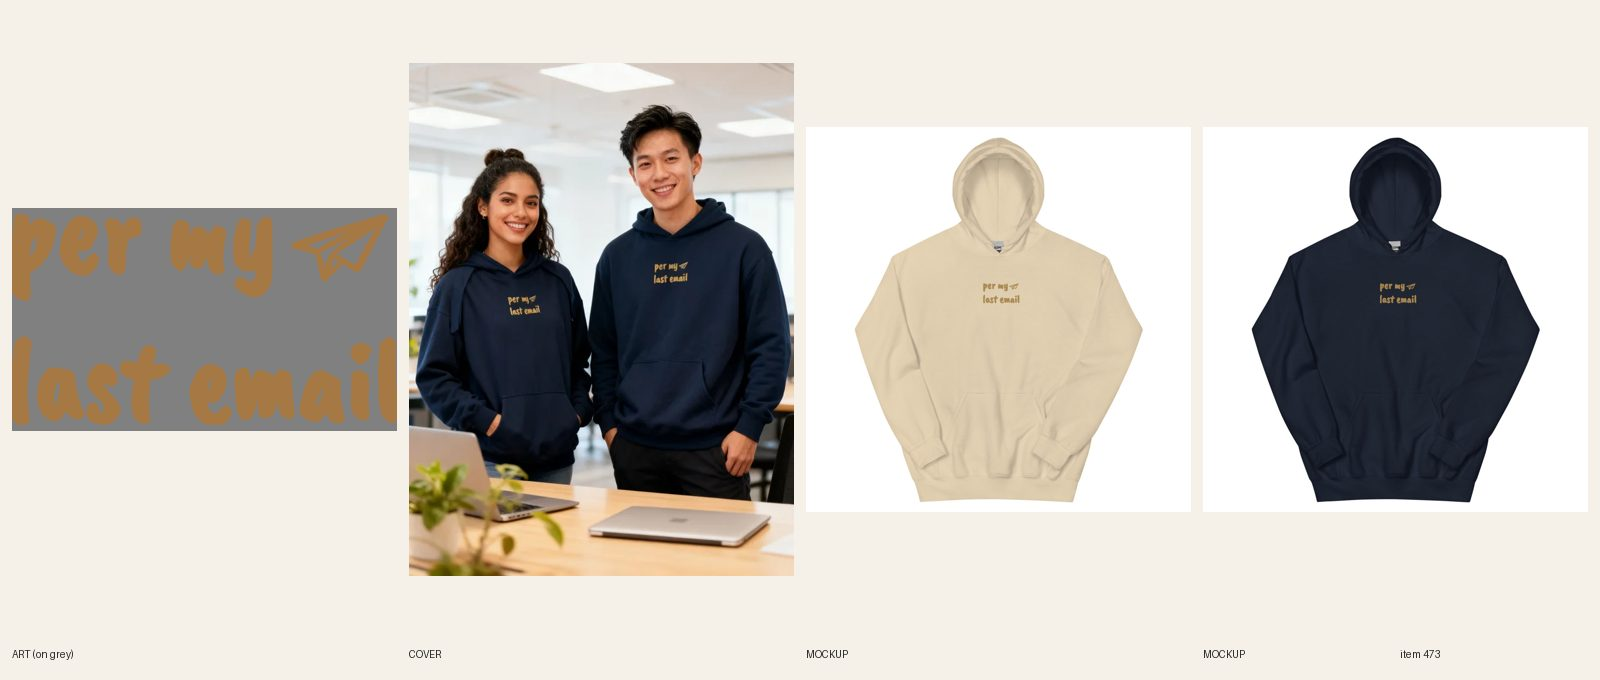
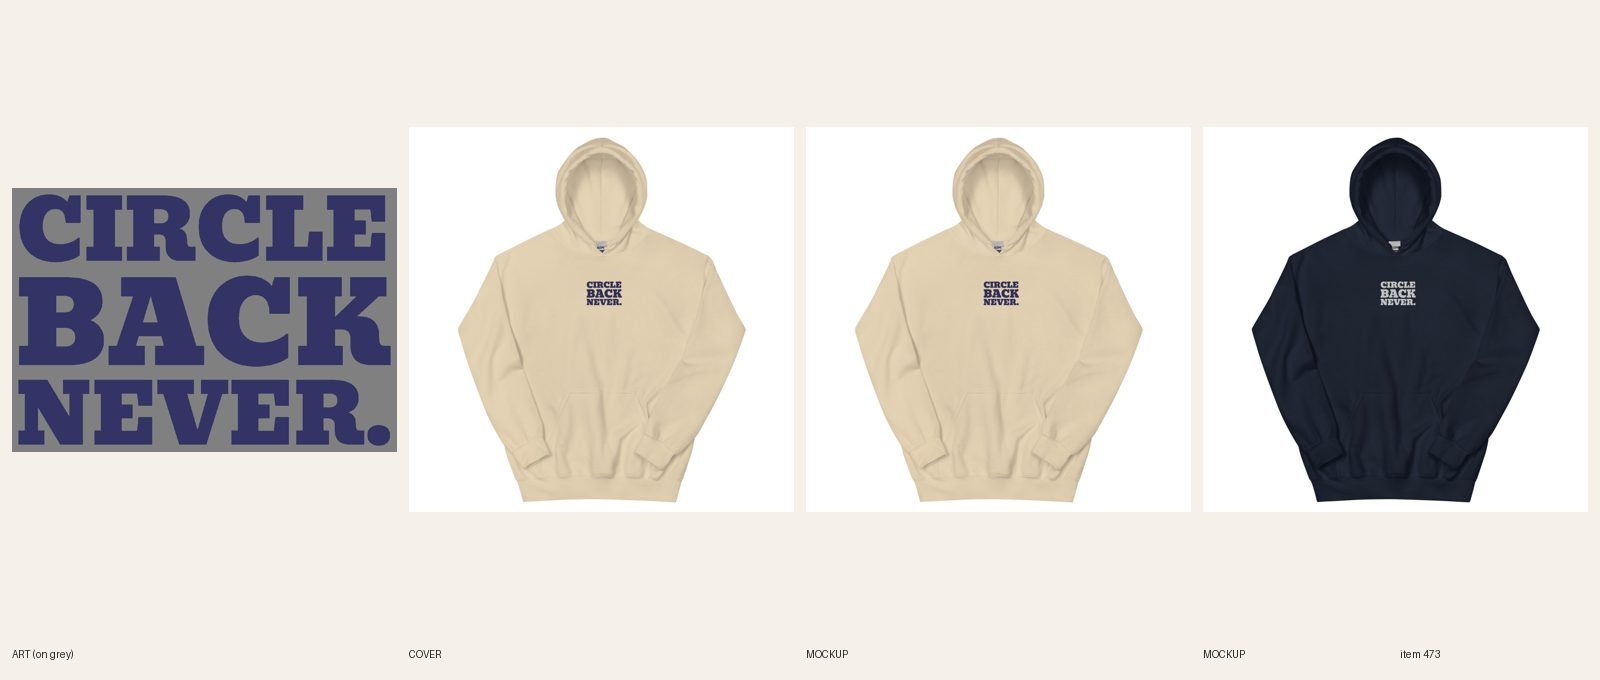
[B] review 473 Circle Back Never embroidered hoodie (line + type redo)

Changed region(s): [[0.0, 0.0926, 0.5, 0.8647], [0.8438, 0.4015, 0.9062, 0.4632], [0.5938, 0.4015, 0.6562, 0.4632]]

diff --git a/docs/pipeline/473-embroidered-hoodie-per-my-last-email.md b/docs/pipeline/473-embroidered-hoodie-per-my-last-email.md
@@ -1,4 +1,4 @@
-status: REDO
+status: REVIEW
 lane: B
 type: twin
 id: 473
@@ -28,3 +28,4 @@ shopify: gid://shopify/Product/15364727079216
 - [B] 2026-10-18 builder: sync DONE, R7.7 default-file check on Printful: 12/12 synced; embroidery_chest_center 1088588157 on all 12, back logo on all. Variant-photo audit clean. Status REVIEW.
 - 2026-10-18 07:22 UTC director: approved from docs/review/473.jpg; ACTIVE + Online Store + Headless + Google & YouTube. Copy fix: 'hand-lettered script' (a real font) → brush script; FAQs repeated the full product name about 10 times, trimmed to read like a person (R8.3). audit --handle PASS (0 warn). LIVE.
 - 2026-10-18 17:22 UTC director: QUALITY RESET grade C (new line + type), REDO. The product stays ACTIVE (same handle, URL, title keyword). 1. Line (R3.12, quality-reset 'Lines'): "per my last email": Overused office meme phrase; stale, no new twist. Write 5 candidates, keep the one a stranger laughs at in 3 seconds without backstory; kill lines that only describe the picture; if none of the 5 is funny, PARK it. 2. Quality reset type bar (docs/backlog/quality-reset.md, 'The new bar'): headline at least 90% of the art width, heavy, colors pulled from the art; second line at least 45% of the headline's height, never a thin script on a dark or mid garment; use the lettering as a shape (arch, stacked lockup, words breaking into the art), not a plain bar above and a script line below; no font used on more than 1 in 6 of the last 30 designs. 3. Keep the art if it carries the new line, else one new illustration (R4/R5). New print means a new cover per R6.10, copy line one rewritten for the new joke (R8.3), and a fresh review sheet (R7.7). While quality-reset.md says PAUSED, only lane A builds, and only the samples step 2 names.
+- 2026-10-20 13:15 UTC builder [B]: REDO 473 (C grade, line + type) done in place (stays ACTIVE, handle unchanged; title now "Unisex Embroidered – Circle Back, Never Hoodie"). 5 candidates: "CIRCLE BACK / NEVER."; "Per My Last Email" (old, stale); "Reply All, Regret Everything"; "Seen. Not Replying."; "Muted On Purpose". Kept CIRCLE / BACK / NEVER. (corporate speak given the honest answer; a stranger gets it in 3 seconds). New embroidery lettering only (no fal, $0): Bevan caps stacked on three lines, emb-prep 3.87 x 2.61 in, thinnest stroke 3.73 mm, capitals about 0.5 in tall (over the 0.3 in minimum), no gradients, no texture. Thread per color (both from Printful's palette, as #469/#486 did): Sand #333366 (file 1090193998), Navy #FFFFFF (file 1090194003). Embroidery sits above the pouch seam on both mockups; back logo kept. 12/12 synced on the new embroidery_chest_center file per color. Front + back mockups replaced in place (pf-emb-mockup, styles 1402/1403), alts, title, SEO, copy and FAQs rewritten (thread colors named from the mockups, old gold removed). Phone-size read OK on both. Cover: handle added to retired-covers.json (the old cover shows the old words). audit --handle PASS 0 warn. Sheet docs/review/473.jpg. Note: #472 (the Per My Last Email work sweatshirt) is the sibling and still carries the old line.

diff --git a/docs/intake-log.md b/docs/intake-log.md
@@ -1,6 +1,7 @@
 RUNNING lane B since 2026-10-20 05:30 UTC
 2026-10-20 05:46 UTC — [B] Builder run: redid #280 Women's Thanksgiving pumpkin hoodie round 2 (R3.7.8: punch THE WARM-UP. widened to headline width, 3600/3600 px, Navy + Sand, 12/12 synced). REVIEW. fal $0.
 2026-10-20 05:53 UTC — [E] Builder run: redid #438 Women's Panda zip hoodie (line + type: ENDANGERED / MORNING PERSON., new sleepy-panda-in-bed art, Bowlby One, Navy + Ash dark-ink file, new head chest copy, 12/12 synced). REVIEW. fal $0.04.
+2026-10-20 05:57 UTC — [B] Builder run: redid #473 Unisex Embroidered hoodie (line + type: CIRCLE / BACK / NEVER., new stacked lettering in thread, Sand #333366 + Navy #FFFFFF, 12/12 synced). REVIEW. fal $0.
 RUNNING lane C since 2026-10-20 05:30 UTC
 2026-10-20 05:45 UTC — [H] Helper run: Telegram inbox empty (getUpdates returned 0 updates, nothing to consume). Audit 608 products: 0 errors, 30 warnings left alone (polish); committed docs/cohesion-audit.md and .json (npm ci first, esbuild was missing). Category check: 0 products without a Shopify category. Site check: #649, #356, #326 all 200 (first try used filename slugs, which are not the handles; real handles are in each pipeline file). Stuck-work check: nothing BUILDING over 3h (#332 claimed 05:44 by lane A, #341 05:41 by lane C). Announcement bar already on the holiday line. Daily summary not due (before 12:00 UTC). Lock released.
 2026-10-20 05:52 UTC — [C] Builder run: redid #341 Women's Axolotl oversized hoodie (new line + type: I'M FINE. / JUST A LITTLE RAIN., Fraunces Black + Bevan, same teacup art, Dust file 1090192013 + Navy file 1090192095, FW 1500 TOP 30, 12/12 relinked, 2 fronts replaced in place, copy + SEO updated, plain product shot). REVIEW. fal $0.
